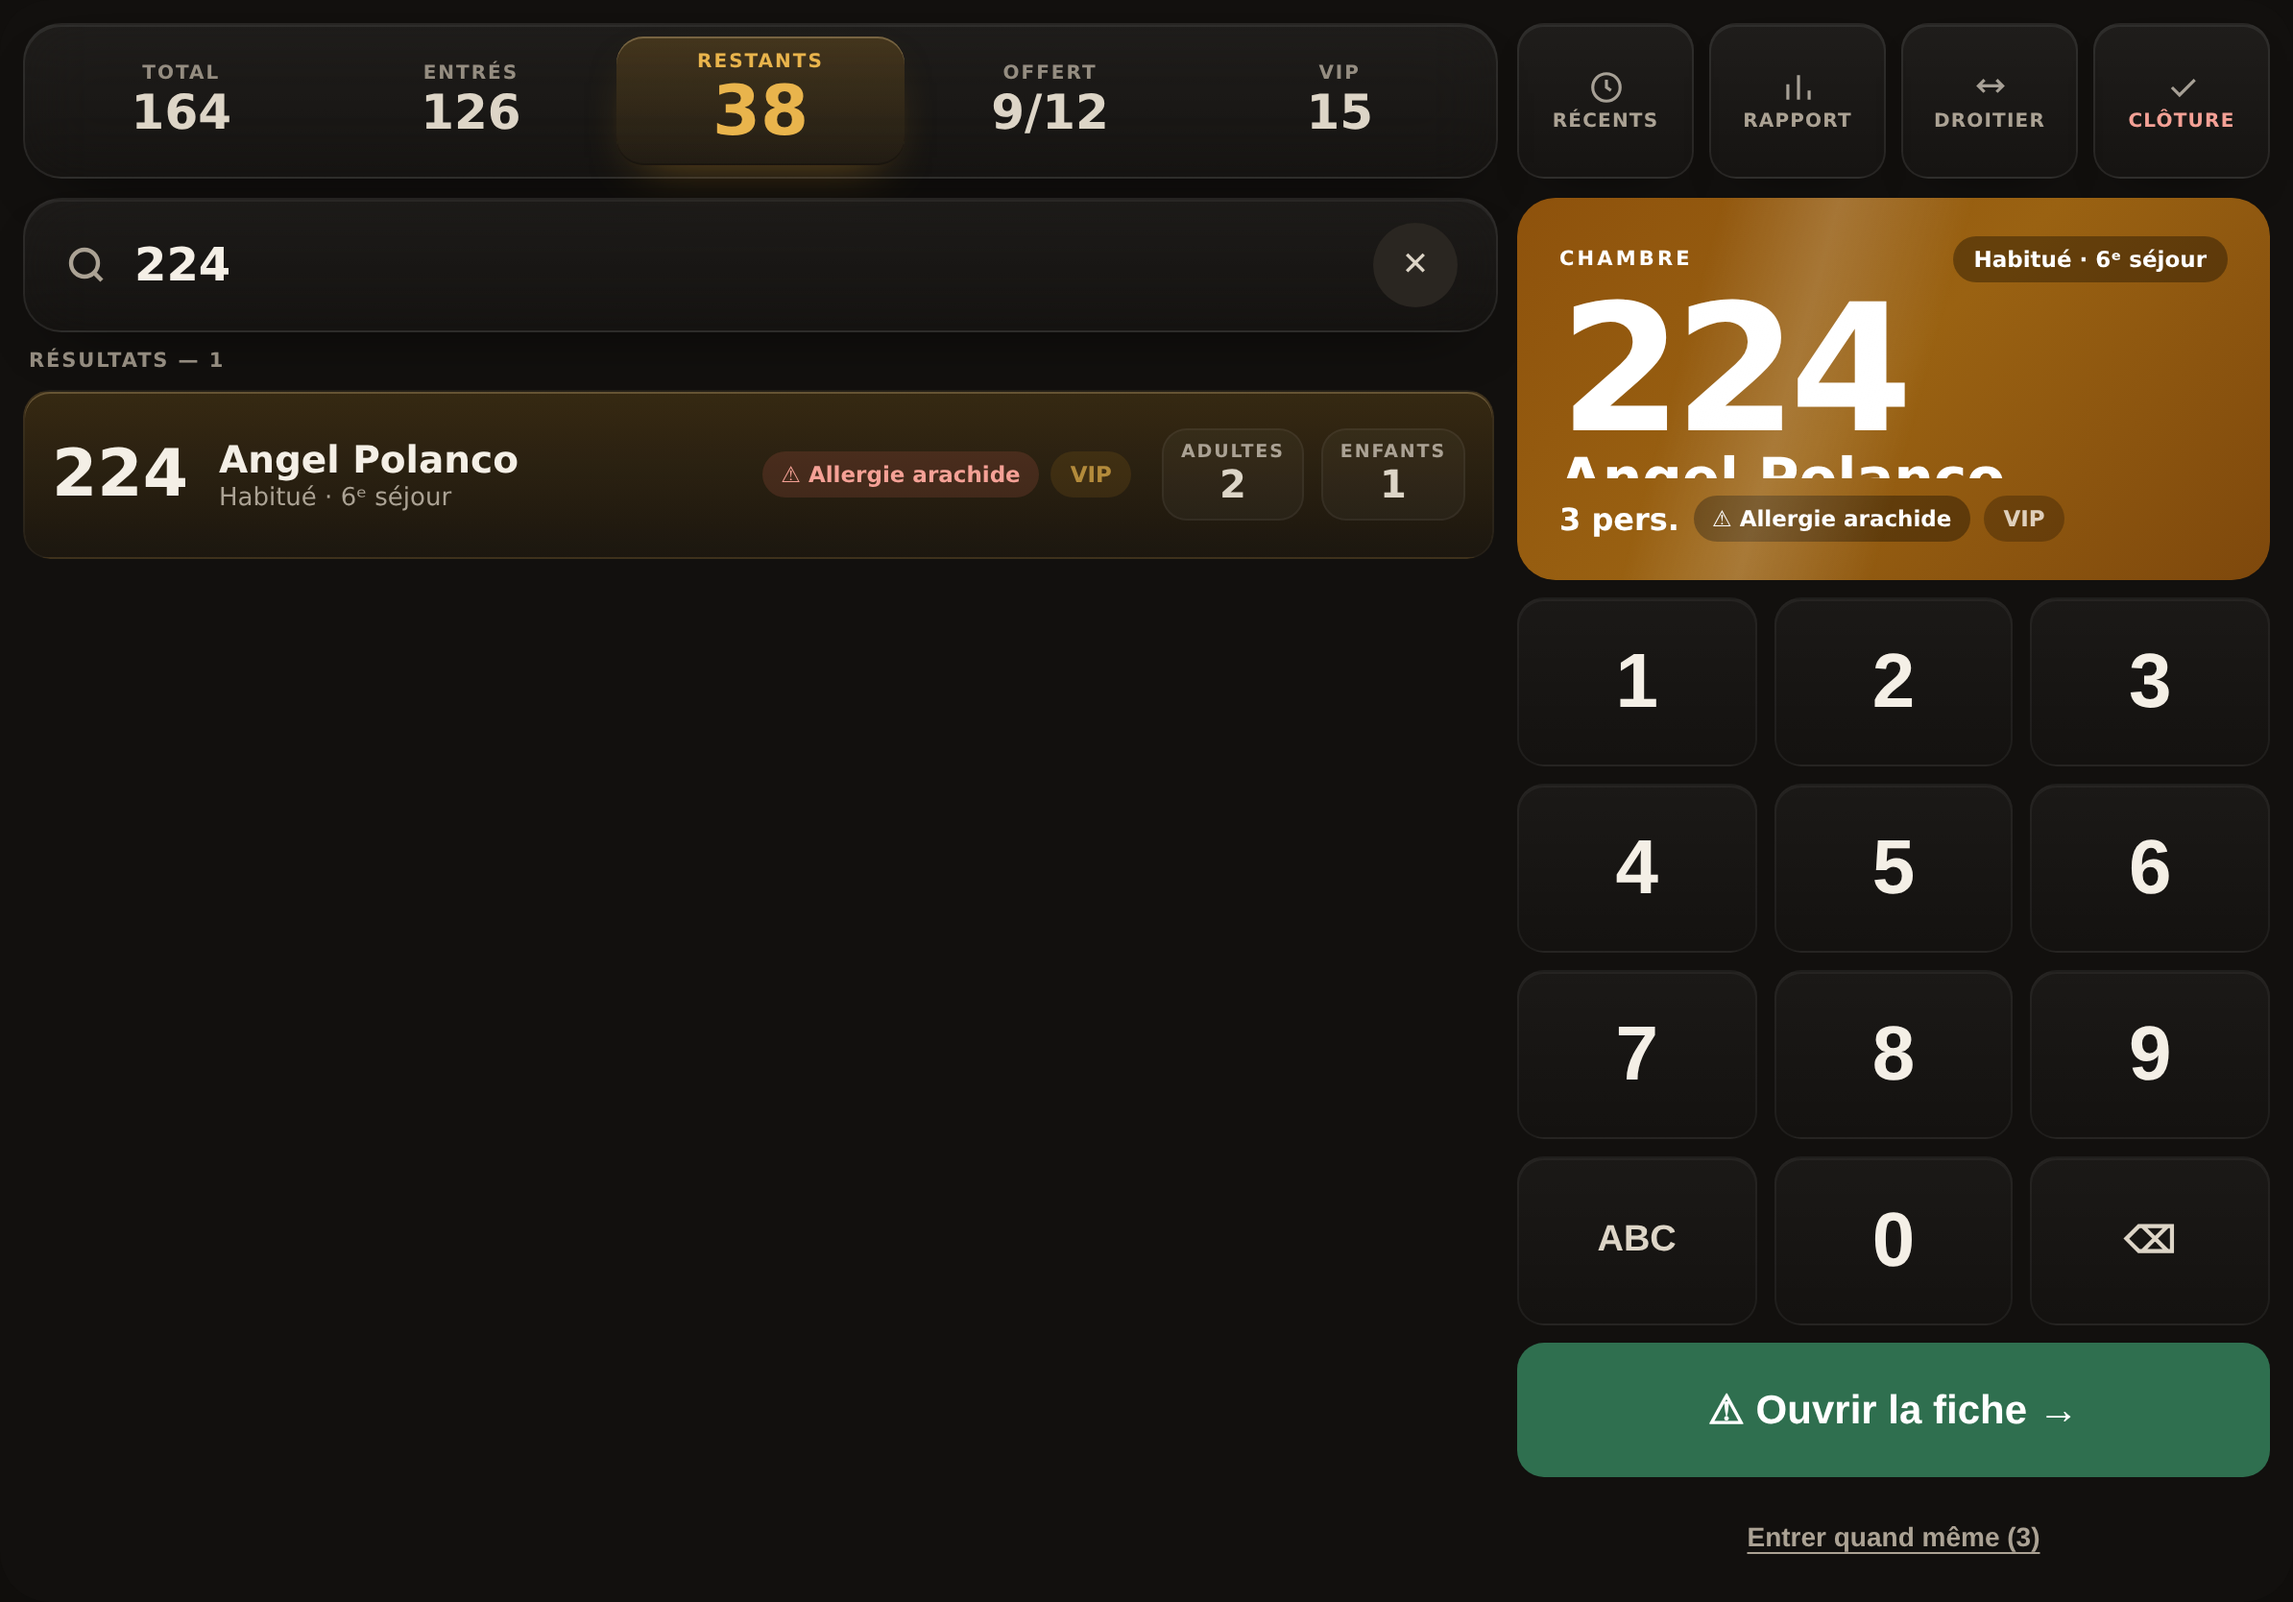
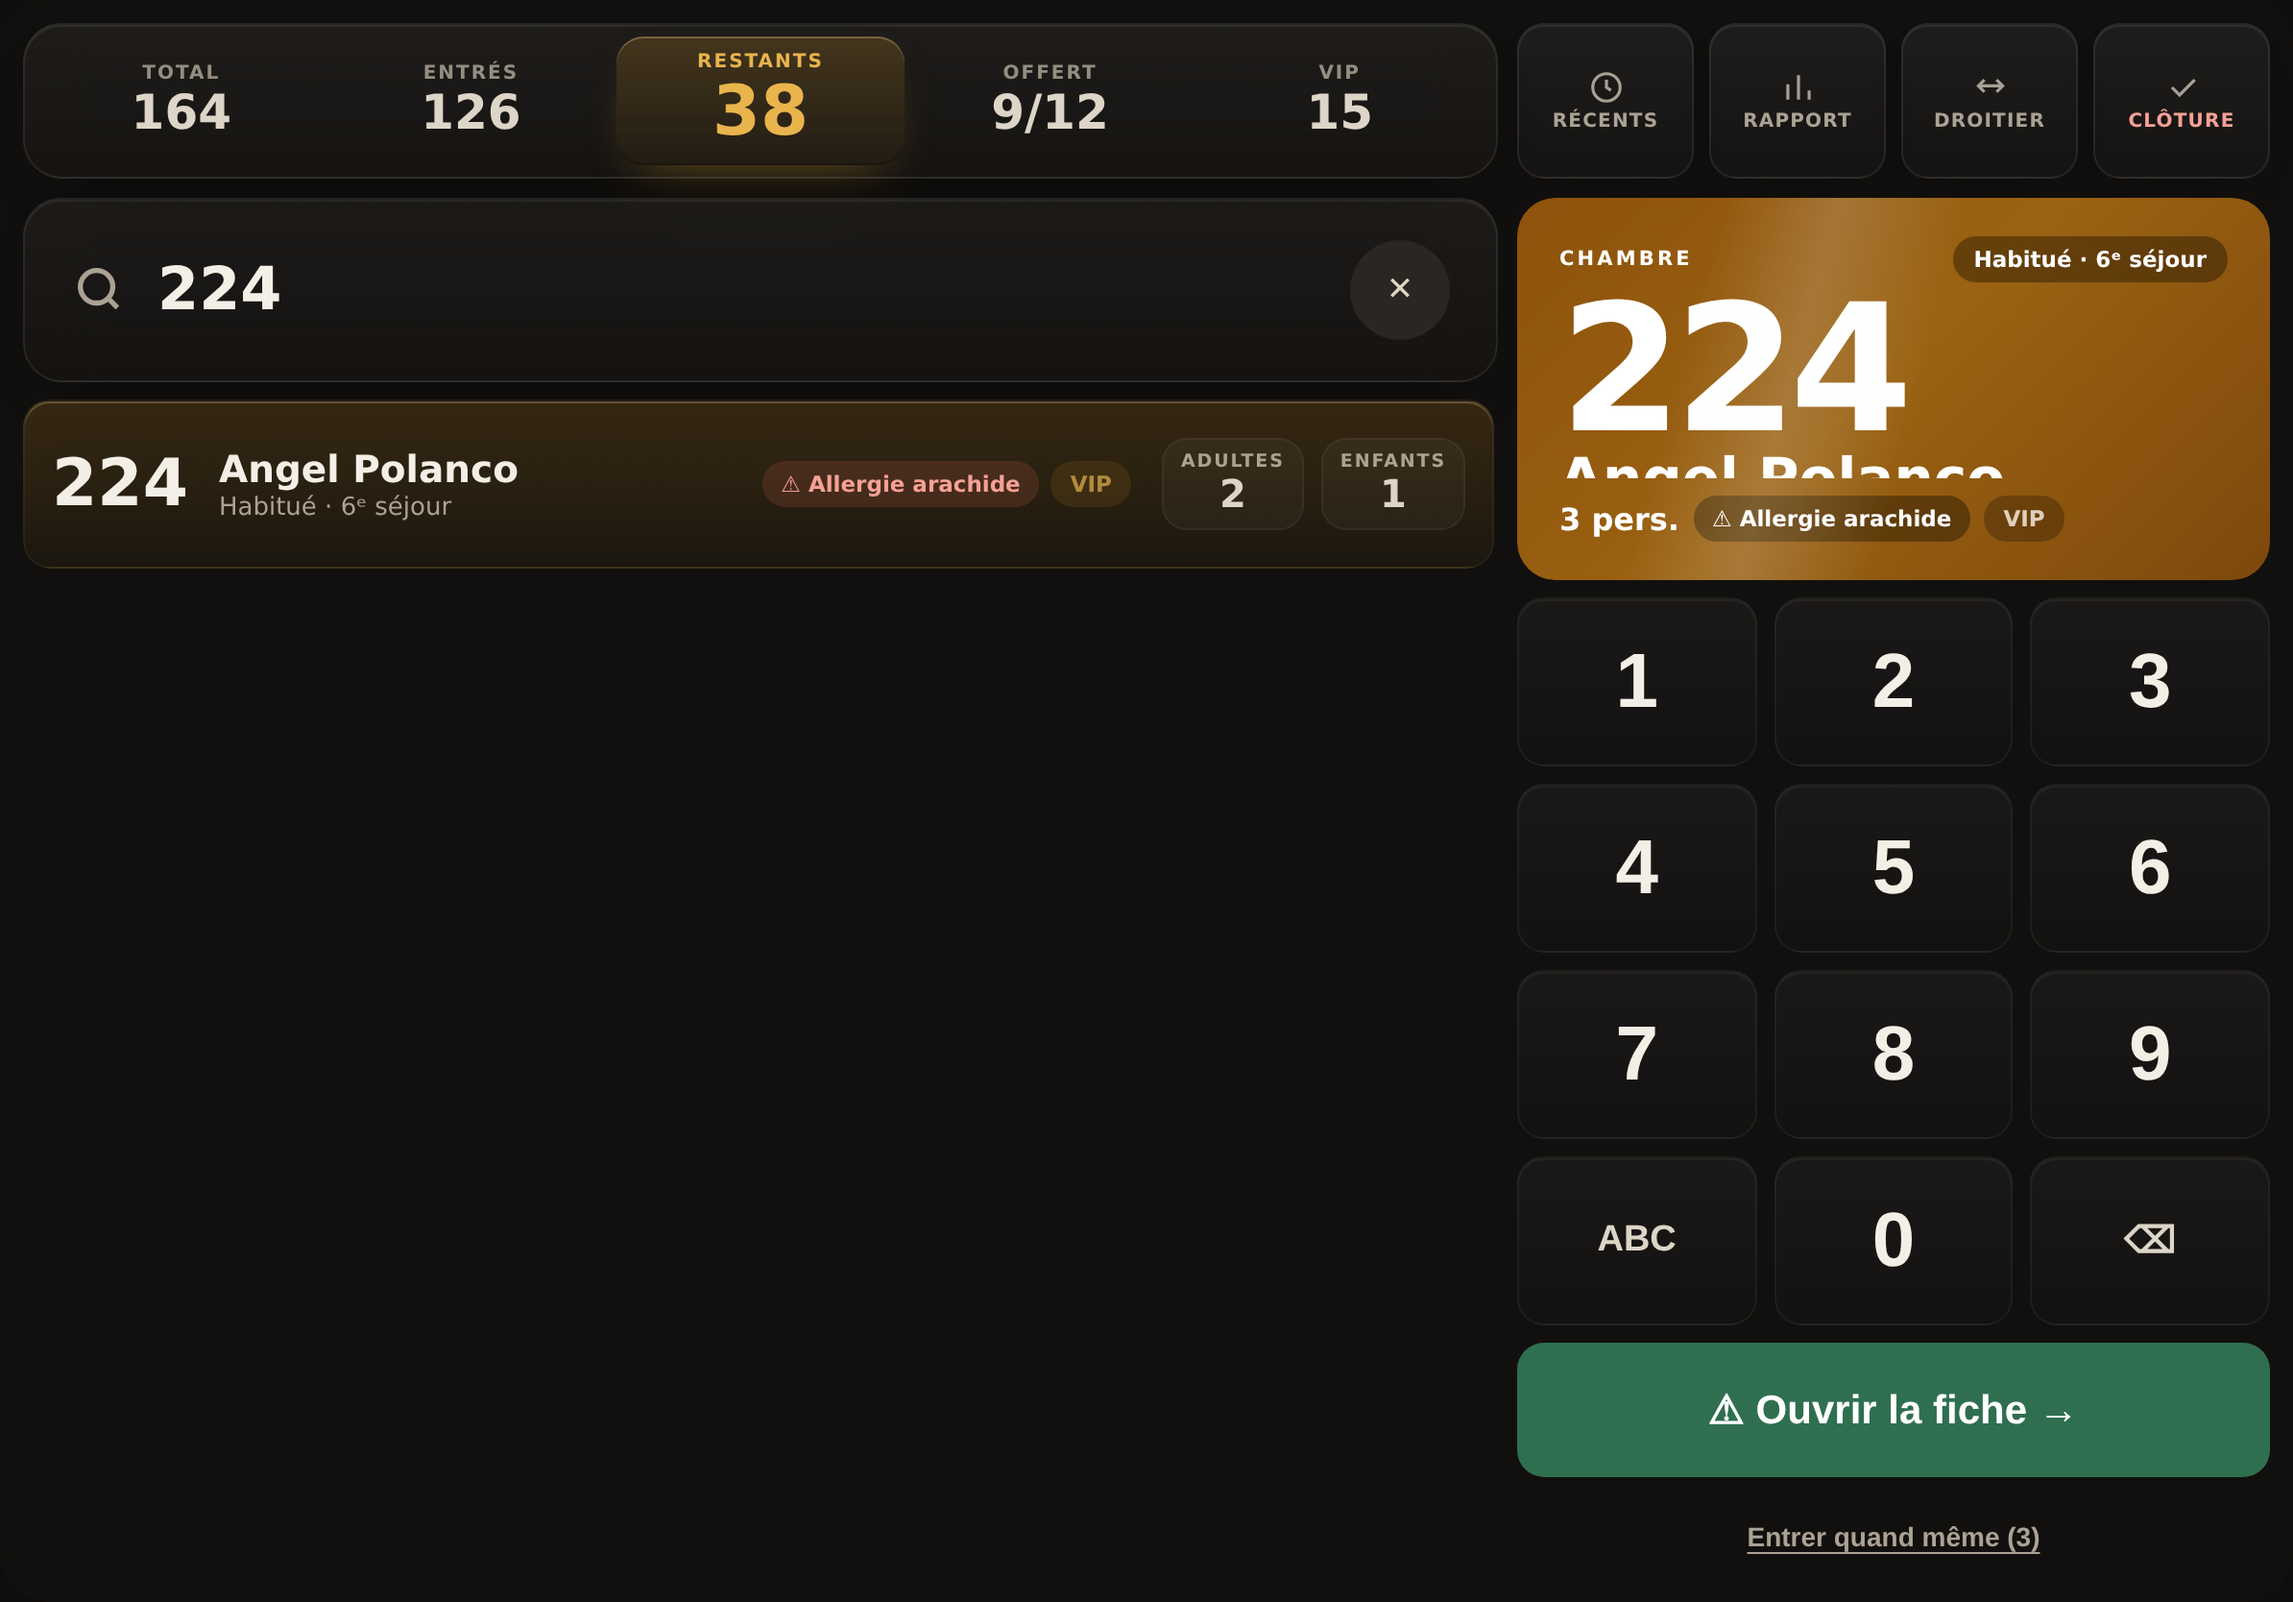
Search v2: elegant clock, larger search field, drop the list label
The 'RESTANTS — 11 CHAMBRES' caption is gone: the count already lives in
the metrics bar, and while searching the preview reports its own.

The search field is now 96px tall with a 31px value, and the placeholder
is a light serif italic rather than heavy sans. Beyond taste, it keeps
the prompt visibly distinct from what you type.

The clock is 108px at weight 300 with tight tracking and tabular figures,
and the day's progress moved to a transport-style strip along the bottom
edge of the box. Each minute only the digits that actually changed give a
single tick, so it reads as running without anything moving the rest of
the time. The mockup toolbar has a +1 minute button to see it.

The colon is drawn as two round dots: the ':' glyph is square-dotted in
several fallback fonts and was rendering as two blocks.

Claude-Session: https://claude.ai/code/session_01PvjN1yrwGssKpuvjG4vcfR

diff --git a/mockups/search-v2.html b/mockups/search-v2.html
@@ -119,17 +119,20 @@
 
   /* search bar — the keypad fills it with digits, the on-screen ABC or a
      paired keyboard fills it with a name. One field, two ways in. */
-  .searchbar{display:flex;align-items:center;gap:13px;padding:0 20px;min-height:70px;
+  .searchbar{display:flex;align-items:center;gap:16px;padding:0 24px;min-height:96px;
     border-radius:var(--r-lg);
     background:linear-gradient(180deg,rgba(255,255,255,.05),rgba(255,255,255,.015));
     backdrop-filter:blur(18px) saturate(1.15);
     border:1px solid rgba(255,255,255,.08);
     box-shadow:inset 0 1px 0 rgba(255,255,255,.06),0 14px 34px -22px rgba(0,0,0,.9)}
-  .searchbar svg{width:24px;height:24px;color:var(--muted);flex:none}
+  .searchbar svg{width:29px;height:29px;color:var(--muted);flex:none}
   .searchbar input{flex:1;min-width:0;background:none;border:none;outline:none;
-    font:inherit;font-size:24px;font-weight:700;color:var(--ink)}
-  .searchbar input::placeholder{color:var(--muted);font-weight:600}
-  .clearq{width:44px;height:44px;border-radius:999px;border:none;background:var(--key);
+    font:inherit;font-size:31px;font-weight:700;color:var(--ink)}
+  .searchbar input::placeholder{
+    font-family:'Iowan Old Style','Palatino Linotype','Book Antiqua',Palatino,Georgia,serif;
+    font-style:italic;font-weight:400;font-size:29px;letter-spacing:.005em;
+    color:var(--muted);opacity:.85}
+  .clearq{width:52px;height:52px;border-radius:999px;border:none;background:var(--key);
     color:var(--ink-2);font-size:17px;cursor:pointer;flex:none}
 
   /* recents strip */
@@ -225,7 +228,7 @@
   /* The preview/clock takes ALL the space above; the keypad and its CTA are
      pinned to the bottom of the column. Same rule as R1 on the check-in
      screen: the thing you must reach never drifts away from the thumb. */
-  .detail{background:linear-gradient(180deg,rgba(255,255,255,.05),rgba(255,255,255,.015));
+  .detail{position:relative;background:linear-gradient(180deg,rgba(255,255,255,.05),rgba(255,255,255,.015));
     backdrop-filter:blur(18px) saturate(1.15);border:1px solid rgba(255,255,255,.08);
     border-radius:var(--r-lg);padding:18px 20px;flex:1;min-height:158px;display:flex;
     flex-direction:column;justify-content:center;overflow:hidden}
@@ -235,15 +238,30 @@
 
   /* idle — service clock */
   .clockrow{display:flex;align-items:baseline;gap:10px}
-  .clock{font-size:66px;font-weight:800;line-height:1;font-variant-numeric:tabular-nums;
-    letter-spacing:-.01em}
+  .clock{font-size:108px;font-weight:300;line-height:.92;letter-spacing:-.045em;
+    font-variant-numeric:tabular-nums;display:flex}
+  .clock .d{display:inline-block}
+  .clock .sep{display:inline-flex;flex-direction:column;justify-content:center;
+    gap:.16em;padding:0 .10em;align-self:center}
+  .clock .sep i{display:block;width:.085em;height:.085em;border-radius:50%;
+    background:currentColor;opacity:.42;animation:blink 2s ease-in-out infinite}
+  @keyframes blink{0%,100%{opacity:.42}50%{opacity:.16}}
+  /* Each minute the digits that actually changed give a single tick, so the
+     clock reads as running without anything moving the rest of the time. */
+  .clock .d.chg{animation:tickIn .34s cubic-bezier(.2,.9,.25,1)}
+  @keyframes tickIn{
+    0%{opacity:.15;transform:translateY(-.14em) scale(.93)}
+    60%{opacity:1;transform:translateY(.012em) scale(1.015)}
+    100%{transform:none}}
   .rush{font-size:11px;font-weight:800;letter-spacing:.07em;text-transform:uppercase;
     padding:4px 9px;border-radius:999px;background:rgba(221,156,40,.16);color:var(--gold-ink)}
-  .bar{height:9px;border-radius:999px;background:var(--key);overflow:hidden;margin:11px 0 7px;
-    border:1px solid var(--key-edge)}
-  .bar i{display:block;height:100%;background:var(--gold);border-radius:999px}
-  .svc{display:flex;justify-content:space-between;font-size:12.5px;color:var(--muted);
-    font-weight:600}
+  /* Day progress hugs the bottom edge of the box, like a transport bar. */
+  .bar{position:absolute;left:0;right:0;bottom:0;height:7px;overflow:hidden;
+    background:rgba(255,255,255,.05);border-radius:0 0 var(--r-lg) var(--r-lg)}
+  .bar i{display:block;height:100%;background:linear-gradient(90deg,var(--gold-deep),var(--gold));
+    box-shadow:0 0 16px -2px rgba(221,156,40,.8)}
+  .svc{display:flex;justify-content:space-between;font-size:13px;color:var(--muted);
+    font-weight:600;margin-top:14px}
   .svc b{color:var(--ink-2);font-weight:700}
 
   /* searching — guest preview, treated as a key card rather than a text block.
@@ -327,6 +345,7 @@
   <button onclick="document.body.classList.toggle('light')">Clair / Sombre</button>
   <button onclick="document.body.classList.toggle('rainbow')">Comparer : 1 accent ⇄ 5 couleurs</button>
   <button onclick="document.body.classList.toggle('mirror')">Inverser (gaucher / droitier)</button>
+  <button onclick="clockM=(clockM+1)%60; if(!clockM) clockH=(clockH+1)%24; if(!typed) render();">+1 minute (voir le tic)</button>
   <span>— maquette interactive : tapez au clavier ou sur le pavé</span>
 </div>
 
@@ -357,7 +376,6 @@
         <input id="q" placeholder="Chambre ou nom du client…" autocomplete="off">
         <button class="clearq" id="clearq" aria-label="Effacer">✕</button>
       </div>
-      <div class="sec" id="listLabel">Restants — 38 chambres</div>
       <div class="list" id="list"></div>
     </div>
 
@@ -447,22 +465,29 @@ function whoBadge(x){
 
 /* Service window — breakfast runs 06:30 to 10:30. */
 const SVC_START = 6.5, SVC_END = 10.5;
-let clockH = 7, clockM = 12;
+let clockH = 7, clockM = 12, prev4 = null;
 function serviceBox(){
   const now = clockH + clockM/60;
   const pct = Math.max(0, Math.min(1, (now - SVC_START) / (SVC_END - SVC_START)));
   const leftMin = Math.max(0, Math.round((SVC_END - now) * 60));
   const rush = now >= 7.5 && now <= 9 ? `<span class="rush">Pointe</span>` : "";
+  const now4 = String(clockH).padStart(2,"0") + String(clockM).padStart(2,"0");
+  const digits = now4.split("").map((d,i)=>{
+    const changed = prev4 && prev4[i] !== d;
+    return `<span class="d ${changed?"chg":""}" style="animation-delay:${i*30}ms">${d}</span>`
+         + (i===1 ? `<span class="sep"><i></i><i></i></span>` : "");
+  }).join("");
+  prev4 = now4;
   return `
     <div class="clockrow">
-      <div class="clock">${String(clockH).padStart(2,"0")}:${String(clockM).padStart(2,"0")}</div>
+      <div class="clock">${digits}</div>
       ${rush}
     </div>
-    <div class="bar"><i style="width:${(pct*100).toFixed(1)}%"></i></div>
     <div class="svc">
       <span>Service <b>06:30 – 10:30</b></span>
       <span><b>${Math.floor(leftMin/60)}h${String(leftMin%60).padStart(2,"0")}</b> restantes</span>
-    </div>`;
+    </div>
+    <div class="bar"><i style="width:${(pct*100).toFixed(1)}%"></i></div>`;
 }
 
 var render = function(){
@@ -519,9 +544,6 @@ var render = function(){
 
   /* ── list ── */
   const shown = typed ? near : ROOMS;
-  el("listLabel").textContent = typed
-    ? `Résultats — ${shown.length}`
-    : `Restants — ${ROOMS.filter(x=>!x.done).length} chambres`;
   el("list").innerHTML = shown.map(x=>{
     const inn = x.in || 0, rem = x.p - inn, done = rem <= 0;
     const locked = !!(x.alert || x.pay);   // no gesture past an allergy or a bill
